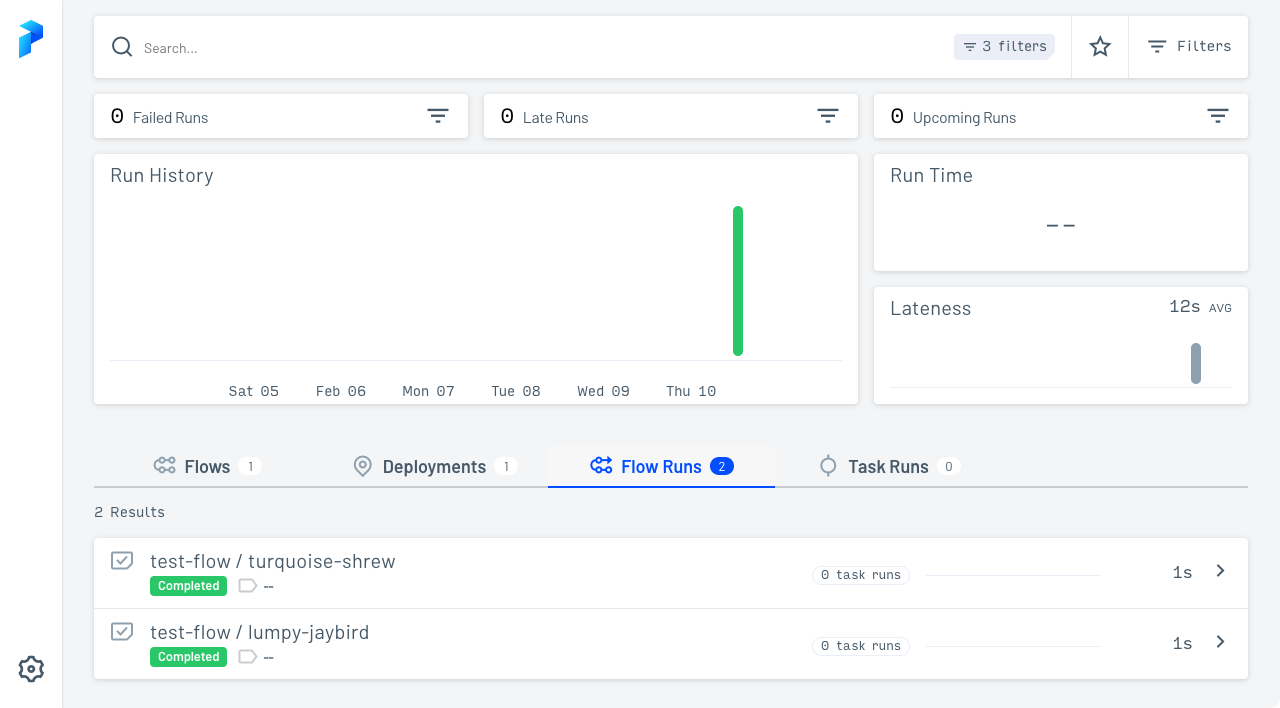
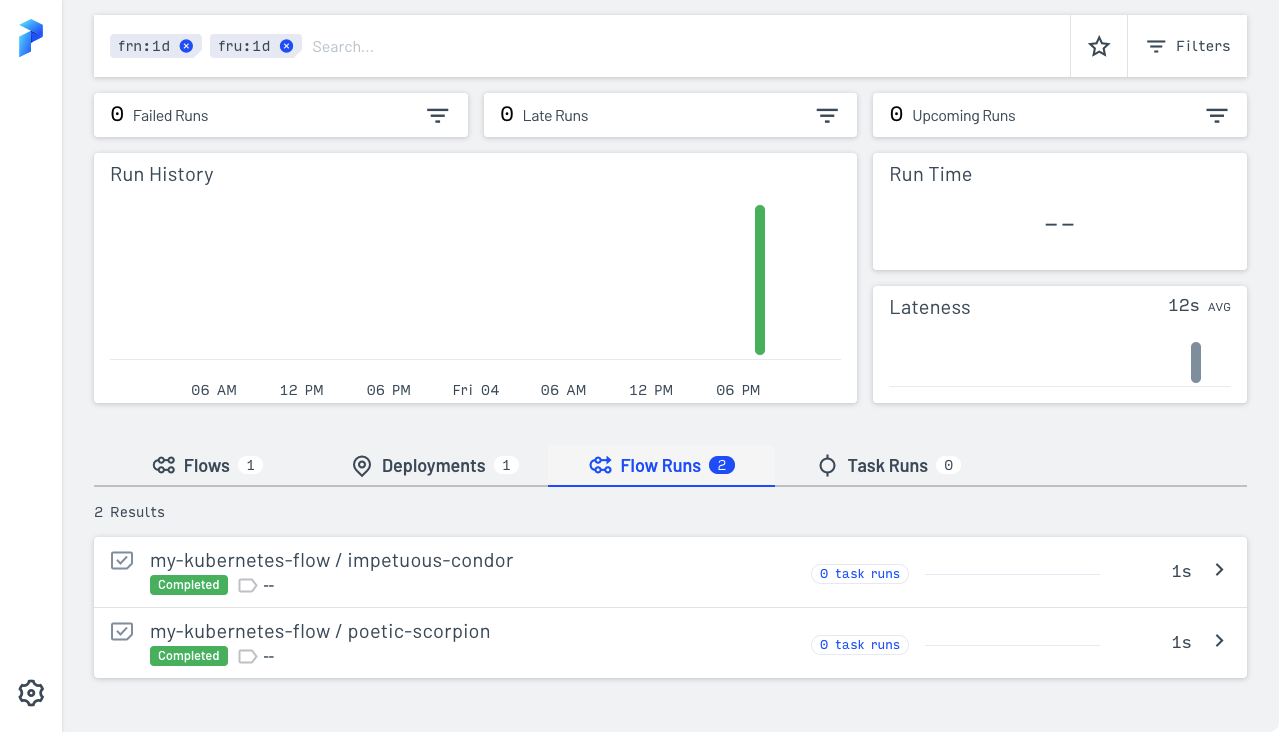
Rework K8s tutorial for storage and other changes

diff --git a/docs/tutorials/kubernetes-flow-runner.md b/docs/tutorials/kubernetes-flow-runner.md
@@ -12,20 +12,48 @@ tags:
 
 Prefect integrates with Kubernetes via the [flow runner interface](/concepts/flow-runners/). The [KubernetesFlowRunner](/api-ref/prefect/flow-runners.md#prefect.flow_runners.KubernetesFlowRunner) runs Prefect flows on Kubernetes as Jobs. You can also can run the Orion API, UI, and agent on Kubernetes.
 
-For this tutorial, we'll deploy a Orion flow to a local Kubernetes cluster run with Docker Desktop.
+For this tutorial, we'll deploy a Orion flow to a local Kubernetes cluster.
 
 ## Requirements
 
-To run the steps in this tutorial, all you'll need is a few easily configured prerequisites: 
+To run the steps in this tutorial, you'll need a few easily configured prerequisites: 
 
 - `kubectl` configured to connect to a cluster.
 - A remote [Storage](/concepts/storage/) configuration, not Local Storage or Temporary Local Storage.
 
 An easy way to get started is to use [Docker Desktop](https://www.docker.com/products/docker-desktop), turning on the [Kubernetes server and client](https://docs.docker.com/desktop/kubernetes/) and Docker CLI integration.
 
-You'll need to configure a remote store such as S3, Google Cloud Storage, or Azure Blob Storage. See the [Storage](/concepts/storage/) documentation for details. 
+You'll also need to configure a remote store such as S3, Google Cloud Storage, or Azure Blob Storage. See the [Storage](/concepts/storage/) documentation for details. 
 
-## Running Orion on Kubernetes
+## A simple Kubernetes deployment
+
+We'll create a simple flow that simply logs a message, indicating that it ran in the Kubernetes cluster. We'll include the [deployment specification](/concepts/deployments/#deployment-specifications) alongside the flow code. 
+
+Save the following script to the file `kubernetes-deployment.py`:
+
+```python
+from prefect import flow, get_run_logger
+from prefect.deployments import DeploymentSpec
+from prefect.flow_runners import KubernetesFlowRunner
+
+@flow
+def my_kubernetes_flow():
+    logger = get_run_logger()
+    logger.info("Hello from Kubernetes!")
+
+DeploymentSpec(
+    name="k8s-example",
+    flow=my_kubernetes_flow,
+    flow_runner=KubernetesFlowRunner()
+)
+```
+
+Notice that this code is not significantly different from the example we used to demonstrate the `DockerFlowRunner` for running a flow in a Docker container &mdash; we just imported `KubernetesFlowRunner` and specified it as the flow runner for this deployment.
+
+
+In future when we reference the deployment, we'll use the format "flow name/deployment name" &mdash; in this case, `my-kubernetes-flow/k8s-example`.
+
+## Run Orion on Kubernetes
 
 The easiest way to get started with the Kubernetes flow runner is to run Orion itself on Kubernetes. 
 
@@ -41,12 +69,15 @@ prefect orion kubernetes-manifest | kubectl apply -f -
 
 After applying the output of this command to your cluster, a Kubernetes deployment named "orion" should start running.
 
-```bash
-deployment.apps/orion configured
-service/orion unchanged
+<div class='termy'>
+```
+$ prefect orion kubernetes-manifest | kubectl apply -f -
+deployment.apps/orion created
+service/orion created
 role.rbac.authorization.k8s.io/flow-runner created
 rolebinding.rbac.authorization.k8s.io/flow-runner-role-binding created
 ```
+</div>
 
 Check the logs with `kubectl` to demonstrate that the deployment is running and an Prefect agent is ready to run a flow:
 
@@ -54,17 +85,21 @@ Check the logs with `kubectl` to demonstrate that the deployment is running and 
 kubectl logs -lapp=orion --all-containers
 ```
 
-You should see something like this:
+You should see something like this indicating that the Orion API is running in Kubernetes:
 
 ```bash
-Configure Prefect to communicate with the server with:
-
-    PREFECT_API_URL=http://0.0.0.0:4200/api
-
-Check out the dashboard at <http://0.0.0.0:4200>
-
-The agent has been disabled. Start an agent with `prefect agent start`.
-
+$ kubectl logs -lapp=orion --all-containers
+INFO:     10.1.0.1:26106 - "POST /work_queues/48199460-6a55-45c1-a96f-baf849c8c25f/get_runs HTTP/1.1" 200 OK
+INFO:     10.1.0.1:56253 - "POST /work_queues/48199460-6a55-45c1-a96f-baf849c8c25f/get_runs HTTP/1.1" 200 OK
+INFO:     10.1.0.1:23968 - "POST /work_queues/48199460-6a55-45c1-a96f-baf849c8c25f/get_runs HTTP/1.1" 200 OK
+INFO:     10.1.0.1:47196 - "POST /work_queues/48199460-6a55-45c1-a96f-baf849c8c25f/get_runs HTTP/1.1" 200 OK
+INFO:     10.1.0.1:36464 - "POST /work_queues/48199460-6a55-45c1-a96f-baf849c8c25f/get_runs HTTP/1.1" 200 OK
+INFO:     10.1.0.1:7321 - "POST /work_queues/48199460-6a55-45c1-a96f-baf849c8c25f/get_runs HTTP/1.1" 200 OK
+INFO:     10.1.0.1:2044 - "POST /work_queues/48199460-6a55-45c1-a96f-baf849c8c25f/get_runs HTTP/1.1" 200 OK
+INFO:     10.1.0.1:29042 - "POST /work_queues/48199460-6a55-45c1-a96f-baf849c8c25f/get_runs HTTP/1.1" 200 OK
+INFO:     10.1.0.1:29406 - "POST /work_queues/48199460-6a55-45c1-a96f-baf849c8c25f/get_runs HTTP/1.1" 200 OK
+INFO:     10.1.0.1:38615 - "POST /work_queues/48199460-6a55-45c1-a96f-baf849c8c25f/get_runs HTTP/1.1" 200 OK
+Created kubernetes work queue 48199460-6a55-45c1-a96f-baf849c8c25f.
 Starting agent connected to http://orion:4200/api...
 
   ___ ___ ___ ___ ___ ___ _____     _   ___ ___ _  _ _____
@@ -74,19 +109,20 @@ Starting agent connected to http://orion:4200/api...
 
 
 Agent started!
-
 ```
 
-This Kubernetes deployment runs the Orion API and UI servers in one container and the agent process in another container, both using pre-built Prefect container images. 
+This Kubernetes deployment runs the Orion API and UI servers, creates a [work queue](/concepts/work-queues/), and starts and agent &mdash; all within the cluster. 
 
-## Forwarding Orion ports to Kubernetes
+## Configure the Orion API on Kubernetes
 
-Next, we'll run a flow in Kubernetes. But before we do, we need to make sure of two things:
+To interact with the Prefect Orion API running in Kubernetes, we need to make sure of two things:
 
-- The `prefect` command knows to talk to the Orion API running Kubernetes
-- We can visit the Orion UI, running in Kubernetes
+- The `prefect` command knows to talk to the Orion API running in Kubernetes
+- We can visit the Orion UI running in Kubernetes
 
-To do this, use the `kubectl port-forward` command to forward a port on your local machine to an open port within the cluster. 
+### Forward ports
+
+First, use the `kubectl port-forward` command to forward a port on your local machine to an open port within the cluster. 
 
 ```bash
 kubectl port-forward deployment/orion 4200:4200
@@ -94,129 +130,163 @@ kubectl port-forward deployment/orion 4200:4200
 
 This forwards port 4200 on the default internal loop IP for localhost to the “orion” deployment. You’ll see output like this:
 
-```bash
+<div class='termy'>
+```
+$ kubectl port-forward deployment/orion 4200:4200
 Forwarding from 127.0.0.1:4200 -> 4200
 Forwarding from [::1]:4200 -> 4200
+Handling connection for 4200
 ```
+</div>
 
-Keep this command running, and open a new terminal for the next commands.
+Keep this command running, and open a new terminal for the next commands. Make sure you change to the same directory as you were previously using and activate your Python virtual environment, if you're using one.
 
-## Running flows on Kubernetes
+### Configure the API URL
 
-Now that we have Orion running on Kubernetes, let's talk about running your actual flows and tasks on Kubernetes. To demonstrate this, we’ll do three things:
+Now we need to tell our local `prefect` command how to communicate with the Orion API running in Kubernetes.
 
-- Set an environment variable to so we can communicate with the Orion API running in Kubernetes.
-- Create a flow and deployment that will run in Kubernetes.
-- Inspect our flow runs that are executing in the Kubernetes cluster.
+In the new terminal session, run the `prefect config view` command to see your current Prefect settings. We're particularly interested in `PREFECT_API_URL`.
 
-## Configure communication with the cluster
+<div class='termy'>
+```
+$ prefect config view
+PREFECT_PROFILE='default'
+PREFECT_API_URL='http://127.0.0.1:4200/api'
+```
+</div>
 
-Before we do anything else, we need to tell our local `prefect` command how to communicate with the Orion API running in Kubernetes.
+If your `PREFECT_API_URL` is currently set to 'http://127.0.0.1:4200/api' or 'http://localhost:4200/api', great! Prefect is configured to communicate with the API at the address we're forwarding, so you can go to the next step.
 
-To do this, set the `PREFECT_API_URL` environment variable:
+If `PREFECT_API_URL` is not set as shown above, run the following Prefect CLI command to configure it for this tutorial:
 
 ```bash
-export PREFECT_API_URL=http://localhost:4200/api
+prefect config set PREFECT_API_URL=http://127.0.0.1:4200/api
 ```
 
 Since we previously configured port forwarding for the localhost port to the Kubernetes environment, we’ll be able to interact with the Orion API running in Kubernetes when using local Prefect CLI commands.
 
-## Creating a flow and deployment
+### Configure storage
 
-Now that the environment is configured, we can write a flow that runs on the "orion" cluster. Specifying the [KubernetesFlowRunner](/api-ref/prefect/flow-runners.md#prefect.flow_runners.KubernetesFlowRunner) runs your flow as a Kubernetes job.
+Now that we can communicate with the Orion API running on the Kubernetes cluster, lets configure [storage](/concepts/storage/) for flow and task run data. 
 
-You can think of a deployment as a way to tell Prefect when and how to run flows on a schedule. Using a flow runner requires creating a Prefect deployment for your flow.
+Before doing this next step, make sure you have the information to connect to and authenticate with a remote data store. In this example we're connecting to an AWS S3 bucket, but you could also Google Cloud Storage or Azure Blog Storage.
 
-Let's configure a new deployment that runs a flow using the Kubernetes flow runner. This deployment will run a flow that prints "Hello from Kubernetes!".
+Run the `prefect storage create` command. In this case we choose the S3 option and supply the bucket name and AWS IAM access key.
 
-To test out this flow, paste this code into a file named `k8s_flow.py`.
-
-```python
-from prefect import flow
-from prefect.deployments import DeploymentSpec
-from prefect.flow_runners import KubernetesFlowRunner
-
-@flow
-def test_flow():
-    print("Hello from Kubernetes!")
-
-DeploymentSpec(
-    flow=test_flow,
-    name="test-deployment",
-    flow_runner=KubernetesFlowRunner(stream_output=True),
-)
+<div class='termy'>
 ```
+$ prefect storage create
+Found the following storage types:
+0) Azure Blob Storage
+    Store data in an Azure blob storage container
+1) Google Cloud Storage
+    Store data in a GCS bucket
+2) KV Server Storage
+    Store data by sending requests to a KV server
+3) Local Storage
+    Store data in a run's local file system
+4) S3 Storage
+    Store data in an AWS S3 bucket
+5) Temporary Local Storage
+    Store data in a temporary directory in a run's local file system
+Select a storage type to create: 4
+You've selected S3 Storage. It has 6 option(s).
+BUCKET: the-curious-case-of-benjamin-bucket
+AWS ACCESS KEY ID (optional): XXXXXXXXXXXXXXXXXXXX
+AWS SECRET ACCESS KEY (optional): XXXXXXXXXXXXXXXXXXXXXXXXXXXXXXXXXXXXXXXX
+AWS SESSION TOKEN (optional):
+PROFILE NAME (optional):
+REGION NAME (optional):
+Choose a name for this storage configuration: benjamin-bucket
+Validating configuration...
+Registering storage with server...
+Registered storage 'benjamin-bucket' with identifier '0f536aaa-216f-4c72-9c31-f3272bcdf977'.
+You do not have a default storage configuration. Would you like to set this as your default storage? [Y/n]: y
+Set default storage to 'benjamin-bucket'.
+```
+</div>
 
-Note that the flow itself is incredibly simple &mdash; it just prints a message &mdash; but you could put more sophisticated flow logic here and even call tasks or subflows.
+We set this storage as the default for the server running in Kubernetes, and any flow runs orchestrated by this server can use the persistent S3 storage for flow code, task results, and flow results.
 
-This code also includes a [deployment specification](/concepts/deployments/#deployment-specifications) that specifies we want to use the Kubernetes flow runner.
+## Create the deployment on Kubernetes
 
-Now, use the Prefect CLI to [create the deployment](/concepts/deployments/#creating-deployments):
+Now use the Prefect CLI to create the deployment, passing the file containing the flow code and deployment specification, `docker-deployment.py`:
+
+<div class='termy'>
+```
+$ prefect deployment create ./kubernetes-deployment.py
+Loading deployments from python script at 'kubernetes-deployment.py'...
+Created deployment 'k8s-example' for flow 'my-kubernetes-flow'
+```
+</div>
+
+## Run a flow on Kubernetes
+
+Now we can run the deployment using the `prefect deployment run` CLI command:
+
+<div class='termy'>
+```
+$ prefect deployment run my-kubernetes-flow/k8s-example
+Created flow run 'poetic-scorpion' (adb711df-e005-41c7-a822-9cb3ae2704f4)
+```
+</div>
+
+You can also run the flow from the Prefect Orion UI. Open a browser tab and navigate to [http://127.0.0.1:4200](http://127.0.0.1:4200). You should see the flow run deployment “my-kubernetes-flow” and a successful flow run.
+
+![Screenshot showing the "my-kubernetes-flow" flow](/img/tutorials/k8s-test-flow.png)
+
+Click **Deployments** to see the entry for this deployment, `k8s-example`. You can run the flow interactively using the **Quick Run** button. 
+
+![Screenshot showing deployed “k8s-example” deployment](/img/tutorials/k8s-test-deploy.png)
+
+Go ahead and kick off an ad-hoc flow run: click **Quick Run** to run the deployment a second time.
+
+## Inspect flow run Jobs
+
+Let's take a closer look at the `my-kubernetes-flow` flow runs we created from the `k8s-example` deployment.
+
+Click **Flow Runs** to see that we did, in fact, create two flow runs that executed as Kubernetes Jobs.
+
+![Screenshot showing flow runs for “k8s-example”](/img/tutorials/k8s-flow-runs.png)
+
+Now select one of the flow runs by clicking on the flow run name &mdash; in this case I clicked "poetic-scorpion". Your flow names will be different.
+
+![Screenshot showing details for the "poetic-scorpion" flow run](/img/tutorials/k8s-flow-run-logs.png)
+
+Go to the **Logs** tab of your flow run. You should see the "Hello from Kubernetes!" log message created by the flow running in Kubernetes!
+
+You can also inspect the Jobs directly through Kubernetes by using `kubectl`. Use `kubectl get jobs` to get the Jobs you just ran:
+
+<div class='termy'>
+```
+$ kubectl get jobs -l app=orion
+NAME                     COMPLETIONS   DURATION   AGE
+impetuous-condorbwwmc    1/1           6s         16m
+poetic-scorpion9m8tq     1/1           5s         31m
+```
+</div>
+
+If you know the name of the specific flow run whose Job you want to find, using the flow run name and `kubectl get jobs` you can find the Jobs for that flow run (your flow run names may be different since they're automatically generated at flow run time):
 
 ```bash
-prefect deployment create k8s_flow.py
+kubectl get jobs -l io.prefect.flow-run-name=poetic-scorpion
 ```
 
-Running this command creates a deployment in the Prefect Orion backend, or updates an existing deployment if you’ve run this tutorial before.
+Since each flow run is a Kubernetes Job, every Job starts a Pod, which in turn starts a container. You can use the `kubectl logs` command to see the logs for all Pods created by a specific Job:
 
-Once you’ve created a deployment, you can use it to schedule a flow run:
-
-```bash
-prefect deployment run test-flow/test-deployment
+<div class='termy'>
 ```
-
-Go to the Orion UI — open a browser tab and navigate to [http://127.0.0.1:4200](http://127.0.0.1:4200) — you should see the flow run deployment “test-flow” and a successful flow run.
-
-![Screenshot showing the "test-flow" flow](/img/tutorials/k8s-test-flow.png)
-
-Click **Deployments** to see the entry for this deployment, “test-deployment”. You can run the flow interactively using the **Quick Run** button. 
-
-![Screenshot showing deployed “test-deployment” flow deployment](/img/tutorials/k8s-test-deploy.png)
-
-If you click **Flow Runs** you should see the completed flow runs for this deployment that ran in the cluster.
-
-![Screenshot showing flow runs for “test-deployment”](/img/tutorials/k8s-flow-runs.png)
-
-## Inspecting flow run jobs
-
-Once the Prefect agent successfully runs a flow using Kubernetes, you'll start to see Jobs for your flow runs. You can use `kubectl get jobs` to get Orion's Jobs like this:
-
-```bash
-kubectl get jobs -l app=orion
+$ kubectl logs -l job-name=poetic-scorpion9m8tq
+00:50:12.123 | INFO    | Flow run 'poetic-scorpion' - Using task runner 'ConcurrentTaskRunner'
+00:50:12.155 | INFO    | Flow run 'poetic-scorpion' - Hello from Kubernetes!
+00:50:12.806 | INFO    | Flow run 'poetic-scorpion' - Finished in state Completed(None)
 ```
+</div>
 
-You should see a list of Jobs for flow runs similar to this:
-
-```bash
-NAME                   COMPLETIONS   DURATION   AGE
-lumpy-jaybirdszdgj     1/1           4s         13m
-turquoise-shrewdnlq7   1/1           4s         3m38s 
-```
-
-If you know the name of the flow run whose jobs you want to find, you can also find Jobs for a specific flow run. You can see these in the Orion UI flow run listing as well as in the list of Jobs that there was a Job for flow run `lumpy-jaybird`.
-
-Using the flow run name and `kubectl get jobs` we can find the Jobs for that flow run (your flow run names may be different since they're automatically generated at flow run time):
-
-```bash
-kubectl get jobs -l io.prefect.flow-run-name=lumpy-jaybird
-```
-
-Since each flow run is a Kubernetes Job, every Job starts a Pod, which in turn starts a container. You can use the following command to see the logs for all Pods created by a specific Job:
-
-```bash
-kubectl logs -l job-name=lumpy-jaybirdszdgj
-```
-
-If your agent is processing flow runs with the Kubernetes flow runner correctly, you should see logging output like the following from the Job's Pods when you run the previous command:
-
-```
-18:07:51.404 | INFO    | Flow run 'lumpy-jaybird' - Using task runner 'SequentialTaskRunner'
-18:07:51.497 | INFO    | Flow run 'lumpy-jaybird' - Finished in state Completed(None)
-Hello from Kubernetes!
-```
-
-You did it! The new Kubernetes flow runner ran your flow in Kubernetes!
+You did it! The Kubernetes flow runner ran your flow as a Job in Kubernetes!
 
 To continue experimenting with the flow in Kubernetes, make any changes to the flow definition and run `prefect deployment create` again for the flow file. This updates the deployment. Orion will pick up your changes for the next scheduled flow run.
+
+## Cleaning up
 
 To clean up your cluster, follow the Docker Desktop instructions to [disable Kubernetes](https://docs.docker.com/desktop/kubernetes/#disable-kubernetes).

diff --git a/docs/tutorials/docker-flow-runner.md b/docs/tutorials/docker-flow-runner.md
@@ -134,7 +134,7 @@ Agent started!
 
 Now we're ready to run our deployed flow in Docker!
 
-## Running the Docker deployment
+## Run the Docker deployment
 
 Go back to the original terminal session, then use the `prefect deployment run` command to create a flow run for the `my-docker-flow/docker-example` deployment:
 
